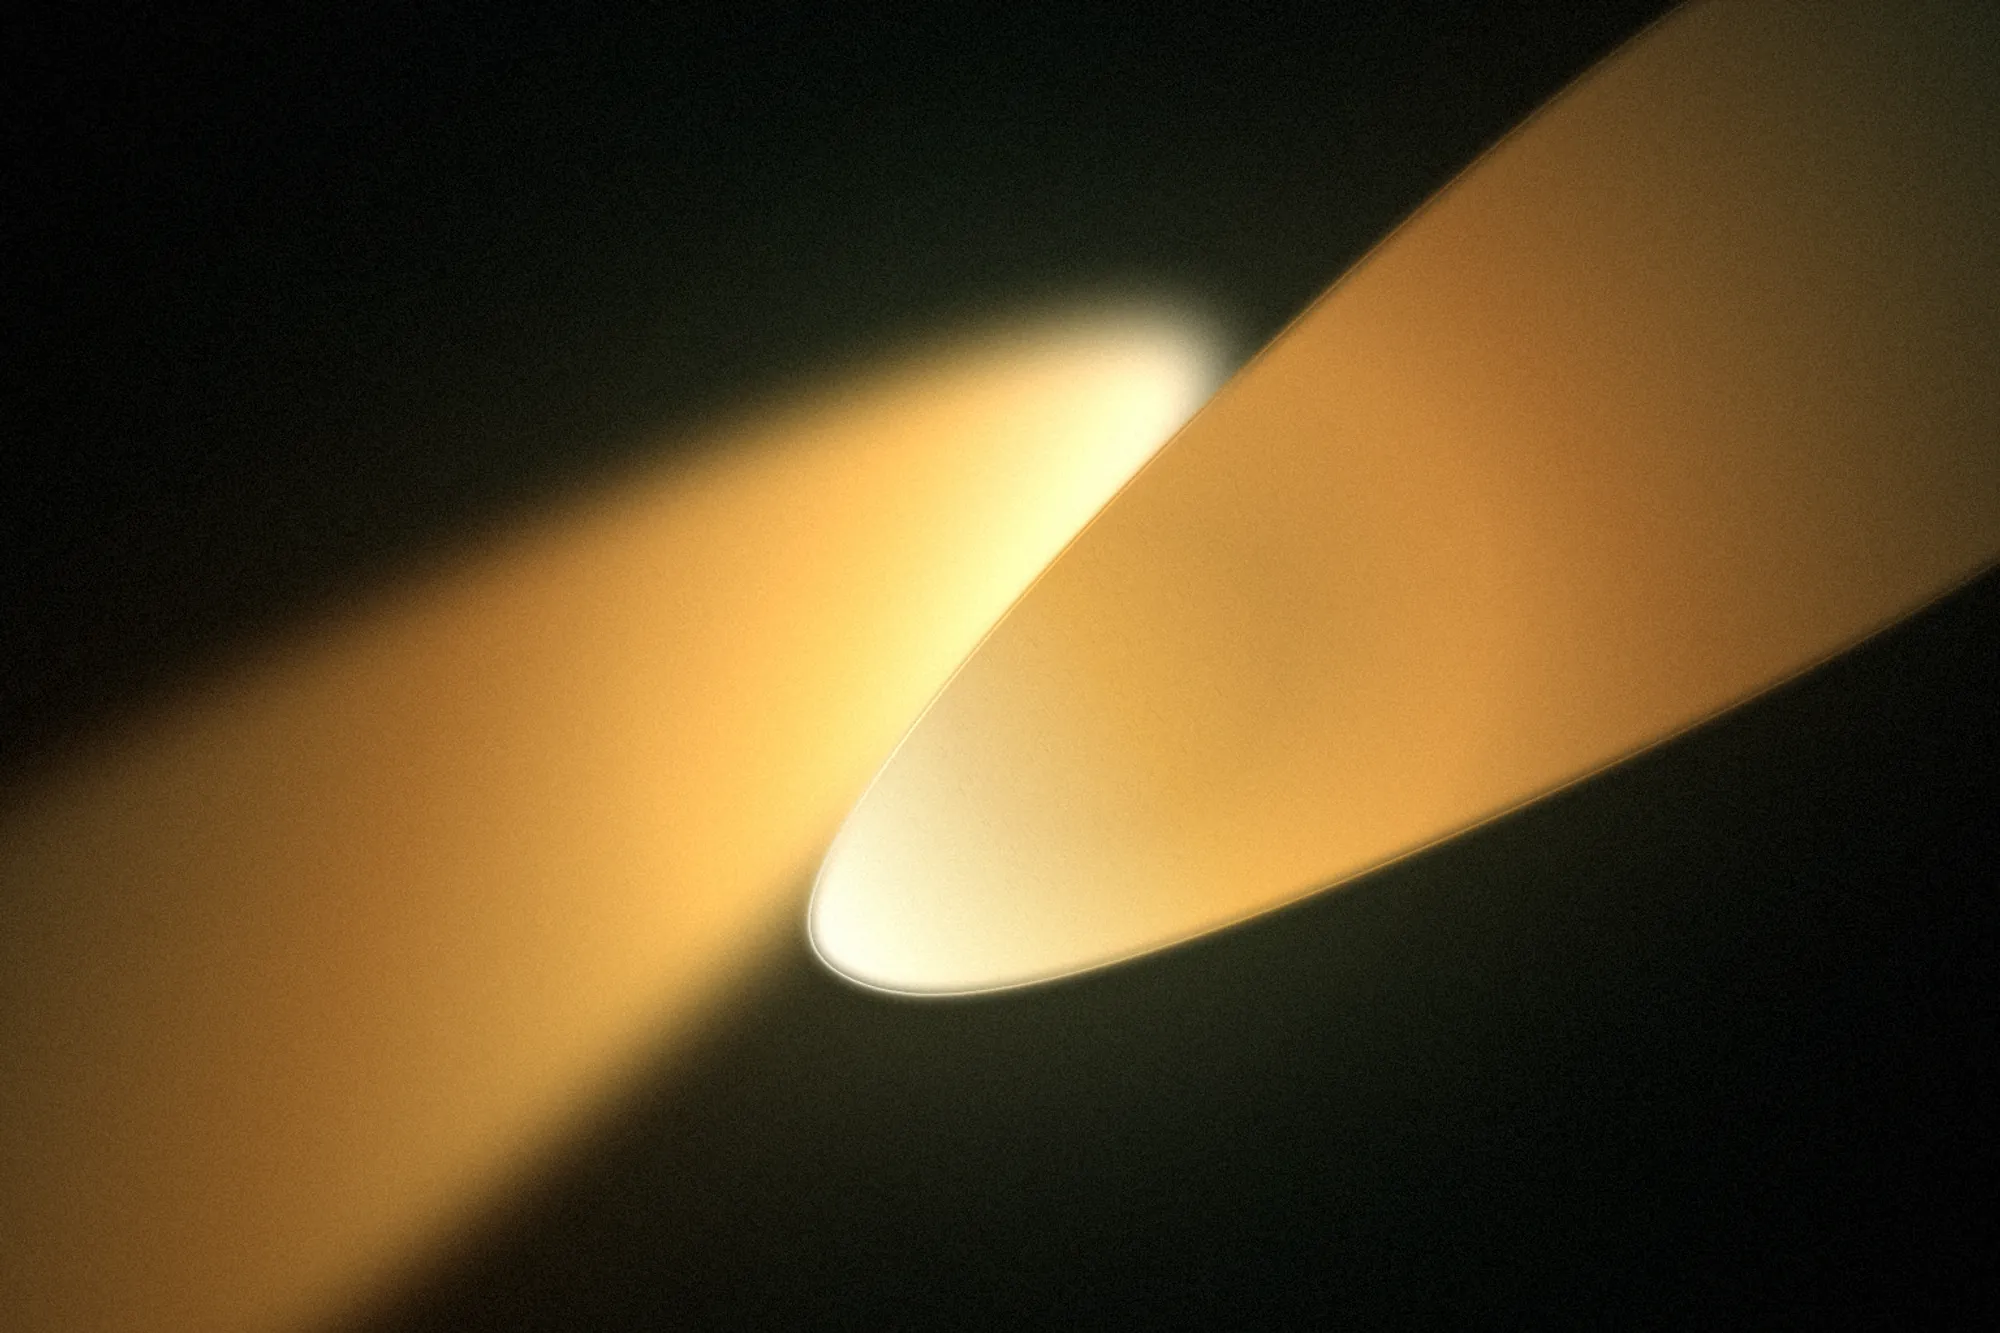
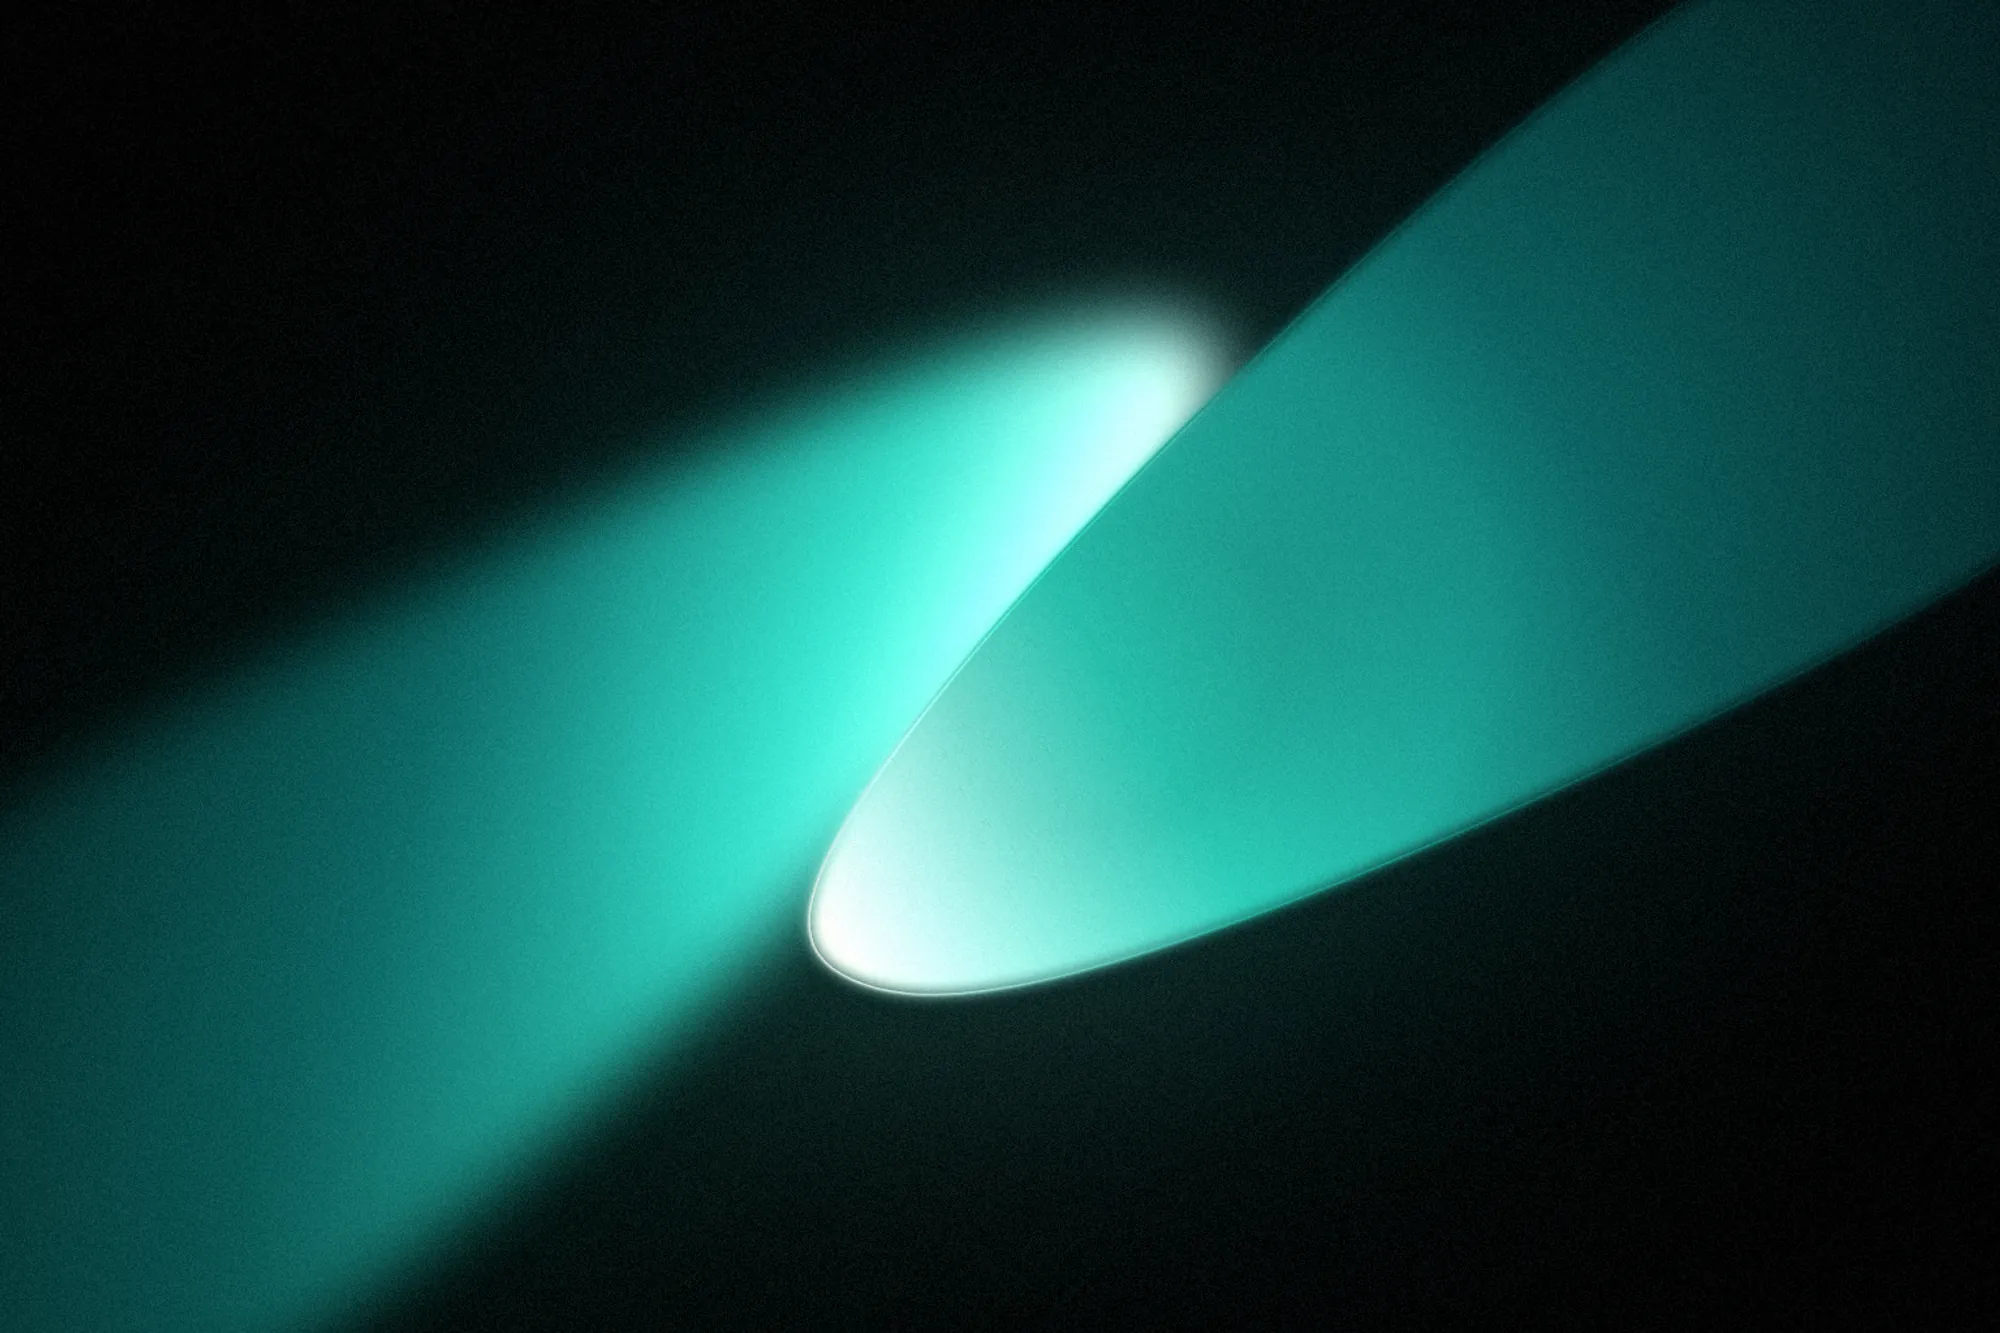
Plates v4: all 19 ship with per-plate colour families (founder 2026-09-28: wide palette, not just gold)

diff --git a/index.html b/index.html
@@ -1090,7 +1090,7 @@ input,select,textarea{font-size:16px !important;}   /* iOS zooms below 16 */
         </div>
       </a>
       <a class="teaser" href="./no-053.html">
-        <div class="img noplate" aria-hidden="true"></div>
+        <div class="img"><img loading="lazy" decoding="async" width="700" height="467" src="og/plate-no-053-card.webp" alt=""></div>
         <div class="body">
           <div class="date meta">09-2026 &middot; AI models</div>
           <h3>Which of the five roles are you</h3>
@@ -1108,7 +1108,7 @@ input,select,textarea{font-size:16px !important;}   /* iOS zooms below 16 */
         </div>
       </a>
       <a class="teaser" href="./no-047.html">
-        <div class="img noplate" aria-hidden="true"></div>
+        <div class="img"><img loading="lazy" decoding="async" width="700" height="467" src="og/plate-no-047-card.webp" alt=""></div>
         <div class="body">
           <div class="date meta">09-2026 &middot; Local tools</div>
           <h3>Convert files locally</h3>
@@ -1260,7 +1260,7 @@ input,select,textarea{font-size:16px !important;}   /* iOS zooms below 16 */
         </div>
       </a>
       <a class="mag" href="./no-031.html">
-        <div class="img noplate" aria-hidden="true"></div>
+        <div class="img"><img loading="lazy" decoding="async" width="700" height="467" src="og/plate-no-031-card.webp" alt=""></div>
         <div class="body">
           <div class="date meta">2026-08-01 &middot; Setup</div>
           <h3>tax the agents</h3>
@@ -1268,7 +1268,7 @@ input,select,textarea{font-size:16px !important;}   /* iOS zooms below 16 */
         </div>
       </a>
       <a class="mag" href="./no-030.html">
-        <div class="img noplate" aria-hidden="true"></div>
+        <div class="img"><img loading="lazy" decoding="async" width="700" height="467" src="og/plate-no-030-card.webp" alt=""></div>
         <div class="body">
           <div class="date meta">2026-08-01 &middot; Setup</div>
           <h3>the council</h3>
@@ -1276,7 +1276,7 @@ input,select,textarea{font-size:16px !important;}   /* iOS zooms below 16 */
         </div>
       </a>
       <a class="mag" href="./no-028.html">
-        <div class="img noplate" aria-hidden="true"></div>
+        <div class="img"><img loading="lazy" decoding="async" width="700" height="467" src="og/plate-no-028-card.webp" alt=""></div>
         <div class="body">
           <div class="date meta">2026-08-01 &middot; Setup</div>
           <h3>Superpowers</h3>
@@ -1284,7 +1284,7 @@ input,select,textarea{font-size:16px !important;}   /* iOS zooms below 16 */
         </div>
       </a>
       <a class="mag" href="./no-026.html">
-        <div class="img noplate" aria-hidden="true"></div>
+        <div class="img"><img loading="lazy" decoding="async" width="700" height="467" src="og/plate-no-026-card.webp" alt=""></div>
         <div class="body">
           <div class="date meta">2026-08-01 &middot; Setup</div>
           <h3>the state file</h3>
@@ -1364,7 +1364,7 @@ input,select,textarea{font-size:16px !important;}   /* iOS zooms below 16 */
         </div>
       </a>
       <a class="mag" href="./no-014.html">
-        <div class="img noplate" aria-hidden="true"></div>
+        <div class="img"><img loading="lazy" decoding="async" width="700" height="467" src="og/plate-no-014-card.webp" alt=""></div>
         <div class="body">
           <div class="date meta">2026-08-01 &middot; Setup</div>
           <h3>Give Claude Code a memory.</h3>
@@ -1468,7 +1468,7 @@ input,select,textarea{font-size:16px !important;}   /* iOS zooms below 16 */
         </div>
       </a>
       <a class="mag" href="./no-036.html">
-        <div class="img noplate" aria-hidden="true"></div>
+        <div class="img"><img loading="lazy" decoding="async" width="700" height="467" src="og/plate-no-036-card.webp" alt=""></div>
         <div class="body">
           <div class="date meta">08-2026 &middot; Tooling</div>
           <h3>Claude Code doesn't know your codebase.</h3>
@@ -1476,7 +1476,7 @@ input,select,textarea{font-size:16px !important;}   /* iOS zooms below 16 */
         </div>
       </a>
       <a class="mag" href="./no-037.html">
-        <div class="img noplate" aria-hidden="true"></div>
+        <div class="img"><img loading="lazy" decoding="async" width="700" height="467" src="og/plate-no-037-card.webp" alt=""></div>
         <div class="body">
           <div class="date meta">08-2026 &middot; AI Tools</div>
           <h3>ChatGPT isn't even on this list.</h3>
@@ -1484,7 +1484,7 @@ input,select,textarea{font-size:16px !important;}   /* iOS zooms below 16 */
         </div>
       </a>
       <a class="mag" href="./no-039.html">
-        <div class="img noplate" aria-hidden="true"></div>
+        <div class="img"><img loading="lazy" decoding="async" width="700" height="467" src="og/plate-no-039-card.webp" alt=""></div>
         <div class="body">
           <div class="date meta">08-2026 &middot; Claude Code</div>
           <h3>You hit your limit. These five fix it.</h3>
@@ -1492,7 +1492,7 @@ input,select,textarea{font-size:16px !important;}   /* iOS zooms below 16 */
         </div>
       </a>
       <a class="mag" href="./no-038.html">
-        <div class="img noplate" aria-hidden="true"></div>
+        <div class="img"><img loading="lazy" decoding="async" width="700" height="467" src="og/plate-no-038-card.webp" alt=""></div>
         <div class="body">
           <div class="date meta">08-2026 &middot; Skill Security</div>
           <h3>Don't install a Claude skill until you read the install line.</h3>
@@ -1508,7 +1508,7 @@ input,select,textarea{font-size:16px !important;}   /* iOS zooms below 16 */
         </div>
       </a>
       <a class="mag" href="./no-045.html">
-        <div class="img noplate" aria-hidden="true"></div>
+        <div class="img"><img loading="lazy" decoding="async" width="700" height="467" src="og/plate-no-045-card.webp" alt=""></div>
         <div class="body">
           <div class="date meta">09-2026 &middot; AI engineering</div>
           <h3>Every stage commits a file</h3>
@@ -1516,7 +1516,7 @@ input,select,textarea{font-size:16px !important;}   /* iOS zooms below 16 */
         </div>
       </a>
       <a class="mag" href="./no-044.html">
-        <div class="img noplate" aria-hidden="true"></div>
+        <div class="img"><img loading="lazy" decoding="async" width="700" height="467" src="og/plate-no-044-card.webp" alt=""></div>
         <div class="body">
           <div class="date meta">08-2026 &middot; Deployment</div>
           <h3>Vercel or Netlify?</h3>

diff --git a/plates-gen.html b/plates-gen.html
@@ -1,6 +1,6 @@
 <!doctype html>
 <!--
-  plates-gen.html — the FREE plate generator (2026-09-27, v3).
+  plates-gen.html — the FREE plate generator (2026-09-27, v4: per-plate palettes 2026-09-28).
 
   Renders one card plate procedurally in a 1536x1024 canvas. The recipe is the
   locked one from reports/PLATE-PROMPTS.md, minus the image model: one large
@@ -34,9 +34,27 @@ const rnd = () => { seed |= 0; seed = seed + 0x6D2B79F5 | 0; let t = Math.imul(s
 const rr = (a, b) => a + (b - a) * rnd();
 
 // ---- palette ----
-const WHITE = [255, 250, 238], CREAM = [244, 228, 196], AMBER = [226, 172, 92], EMBER = [148, 96, 46];
-const DEEP = [14, 32, 28];              // the shadow side: cool, desaturated green-black
-const COOLHI = [190, 214, 200];         // a cool highlight for warm-vs-cool subjects
+// ---- palettes (v4, founder 2026-09-28: a wide palette, not just the gold) ----
+// Each plate picks one family. The names are kept from v3 so the subject code
+// reads the same: WHITE = the hot core, CREAM = the lit rim, AMBER = the body
+// hue, EMBER = the deep hue, DEEP = the shadow tint, COOLHI = the contrast
+// highlight used where a subject wants a second temperature.
+const PALETTES = {
+  gold:    { CREAM: [244, 228, 196], AMBER: [226, 172, 92],  EMBER: [148, 96, 46],  DEEP: [14, 32, 28],  COOLHI: [190, 214, 200] },
+  cobalt:  { CREAM: [204, 222, 255], AMBER: [72, 122, 232],  EMBER: [24, 48, 140],  DEEP: [8, 12, 40],   COOLHI: [255, 214, 170] },
+  rose:    { CREAM: [255, 216, 224], AMBER: [232, 92, 132],  EMBER: [140, 30, 70],  DEEP: [40, 10, 24],  COOLHI: [200, 232, 222] },
+  teal:    { CREAM: [204, 242, 234], AMBER: [52, 190, 172],  EMBER: [14, 92, 92],   DEEP: [6, 28, 30],   COOLHI: [255, 222, 182] },
+  violet:  { CREAM: [228, 212, 255], AMBER: [152, 92, 232],  EMBER: [70, 30, 140],  DEEP: [22, 10, 44],  COOLHI: [255, 230, 190] },
+  crimson: { CREAM: [255, 204, 186], AMBER: [222, 64, 44],   EMBER: [122, 20, 22],  DEEP: [36, 8, 10],   COOLHI: [200, 220, 240] },
+  emerald: { CREAM: [214, 246, 214], AMBER: [64, 182, 94],   EMBER: [16, 82, 42],   DEEP: [6, 26, 16],   COOLHI: [255, 230, 200] },
+  copper:  { CREAM: [255, 222, 194], AMBER: [212, 122, 72],  EMBER: [112, 52, 30],  DEEP: [30, 14, 10],  COOLHI: [190, 220, 232] },
+  ice:     { CREAM: [232, 246, 255], AMBER: [142, 202, 242], EMBER: [42, 92, 152],  DEEP: [10, 20, 40],  COOLHI: [255, 212, 162] },
+  magenta: { CREAM: [255, 204, 242], AMBER: [222, 72, 202],  EMBER: [122, 22, 112], DEEP: [36, 8, 34],   COOLHI: [200, 240, 222] },
+};
+// Spread across the grid so neighbouring cards differ (index order: 054 053 052 047 | 046 033 031 030 028 026 ...).
+const PALETTE_OF = { '054': 'cobalt', '053': 'rose', '052': 'teal', '047': 'violet', '046': 'crimson', '031': 'emerald', '030': 'magenta', '028': 'ice', '026': 'copper', '014': 'cobalt', '034': 'teal', '035': 'rose', '036': 'violet', '037': 'emerald', '039': 'crimson', '038': 'ice', '041': 'gold', '045': 'magenta', '044': 'cobalt' };
+const PAL = PALETTES[PALETTE_OF[n]] || PALETTES.gold;
+const WHITE = [255, 250, 240], CREAM = PAL.CREAM, AMBER = PAL.AMBER, EMBER = PAL.EMBER, DEEP = PAL.DEEP, COOLHI = PAL.COOLHI;
 const rgba = (c, a = 1) => `rgba(${c[0]},${c[1]},${c[2]},${a})`;
 const mix = (a, b, t) => a.map((v, i) => Math.round(v + (b[i] - v) * t));
 
@@ -123,13 +141,13 @@ function cut(pts, blur = 14) {
 }
 function ambient(x, y, r, a) {
   ctx.save(); const g = ctx.createRadialGradient(x, y, 0, x, y, r);
-  g.addColorStop(0, `rgba(20,42,34,${a})`); g.addColorStop(1, 'rgba(0,0,0,0)');
+  g.addColorStop(0, rgba(mix(DEEP, [0, 0, 0], 0.2), a)); g.addColorStop(1, 'rgba(0,0,0,0)');
   ctx.fillStyle = g; ctx.fillRect(0, 0, W, H); ctx.restore();
 }
 function journey(from, to, a) {
   ctx.save(); ctx.globalCompositeOperation = 'soft-light';
   const g = ctx.createLinearGradient(from[0], from[1], to[0], to[1]);
-  g.addColorStop(0, `rgba(255,176,70,${a})`); g.addColorStop(1, `rgba(16,60,48,${a})`);
+  g.addColorStop(0, rgba(AMBER, a)); g.addColorStop(1, rgba(mix(DEEP, EMBER, 0.3), a));
   ctx.fillStyle = g; ctx.fillRect(0, 0, W, H); ctx.restore();
 }
 function falloff(cx, cy, a = 0.7) {

diff --git a/reports/SITE-REVIEW-2026-09-27.md b/reports/SITE-REVIEW-2026-09-27.md
@@ -70,3 +70,7 @@ Third pass (Opus judge, one pass, contact sheet vs 4 references, 2026-09-27): PA
 Staged: the 6 that passed. The 13 that failed stay BLANK (a bad plate beside the references is worse than a gap; the judge is the gate). All 19 renders are on the contact sheet at `reports/plates-contact-2026-09-27.png` for the founder's own eye. To ship any of the 13 anyway: `node gen-plates-free.mjs <num> && node ingest-plates.mjs && node build.mjs`. To replace them with the paid route: `node gen-plates.mjs <nums>` then the same ingest + build.
 
 Browser check of the built pages (local server, 2026-09-27): 39 issues in the count, 3 teardown rows, nav Packs panel = 4 newest titles, packs section = 046 + 033, reel button creates the YouTube iframe on click, wordmark at x=16, about.html renders with 5 cards and no unfilled tokens, `node build.mjs --check` OK.
+
+## 7. Founder call 2026-09-28: ship all 19, widen the palette
+
+Founder on the v3 sheet: "those are good but use a wide palette of colours, not just that yellow." The founder's eye overrules the judge's 13 fails; all 19 plates ship. v4 gives each plate its own colour family (cobalt, rose, teal, violet, crimson, emerald, copper, ice, magenta, one gold), spread so neighbouring cards differ; the shadow tint and the colour drift follow the family. Sheet: . Zero blank cards after build;  OK.
